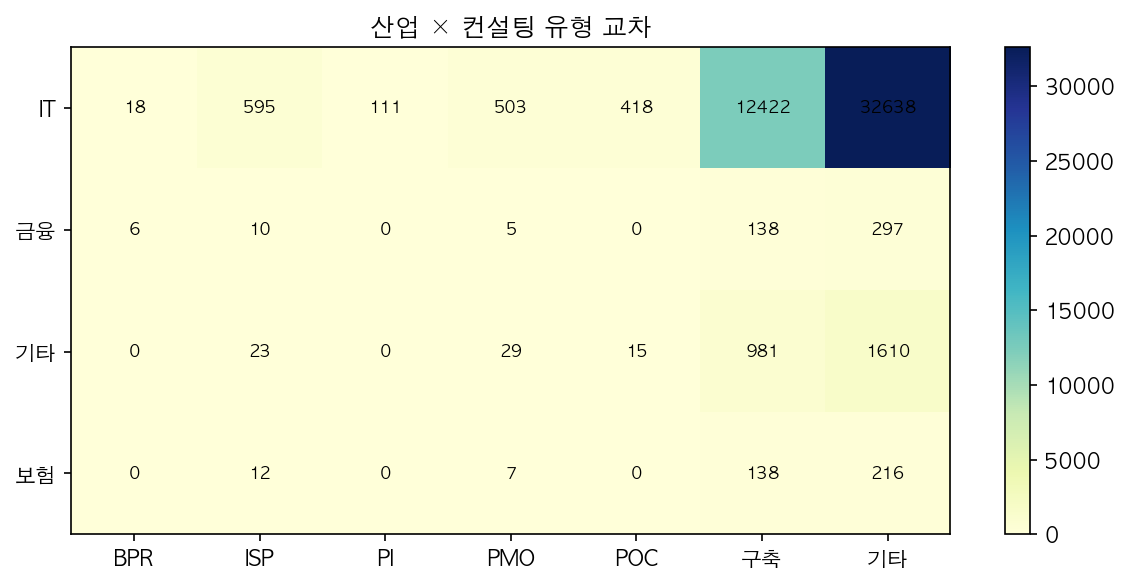
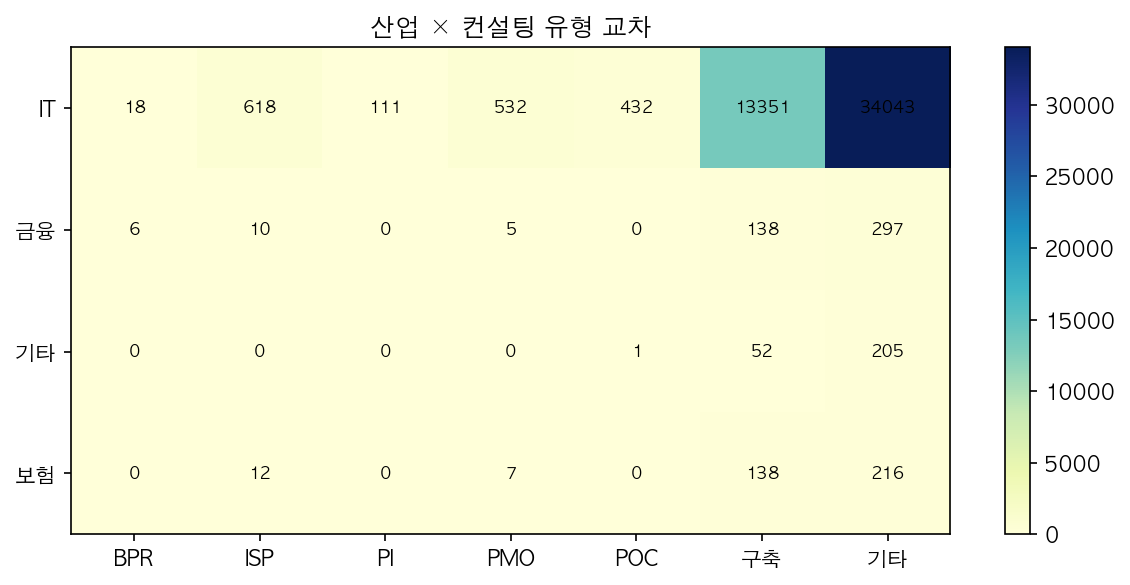
fix: 산업 태깅 IT 키워드를 색인 키워드와 동기화 (기타 5.3%→0.5%)

diff --git a/src/preprocess_rfp.py b/src/preprocess_rfp.py
@@ -24,9 +24,12 @@ INDUSTRY_KEYWORDS = {
     "보험": ["보험", "생명", "손해", "공제", "재보험", "보험사"],
     "금융": ["은행", "금융", "증권", "카드", "캐피탈", "자산운용", "저축",
              "금감원", "예금보험", "신용정보"],
-    "IT": ["정보시스템", "소프트웨어", "플랫폼", "클라우드", "데이터",
-           "AI", "인공지능", "빅데이터", "디지털", "ERP", "BPR", "ISP",
-           "PI", "POC", "PMO", "시스템", "웹", "모바일", "앱"],
+    "IT": ["정보시스템", "소프트웨어", "SW", "S/W", "플랫폼", "클라우드", "데이터",
+           "데이터베이스", "DB구축", "AI", "인공지능", "빅데이터", "디지털",
+           "ERP", "BPR", "ISP", "PI", "POC", "PMO", "시스템", "웹", "웹사이트",
+           "홈페이지", "모바일", "앱", "애플리케이션", "어플리케이션",
+           "정보화", "전산", "정보통신", "ICT", "지능형", "고도화", "IoT",
+           "사물인터넷", "챗봇", "스마트", "관제", "전자정부"],
 }
 
 CONSULTING_TYPES = {